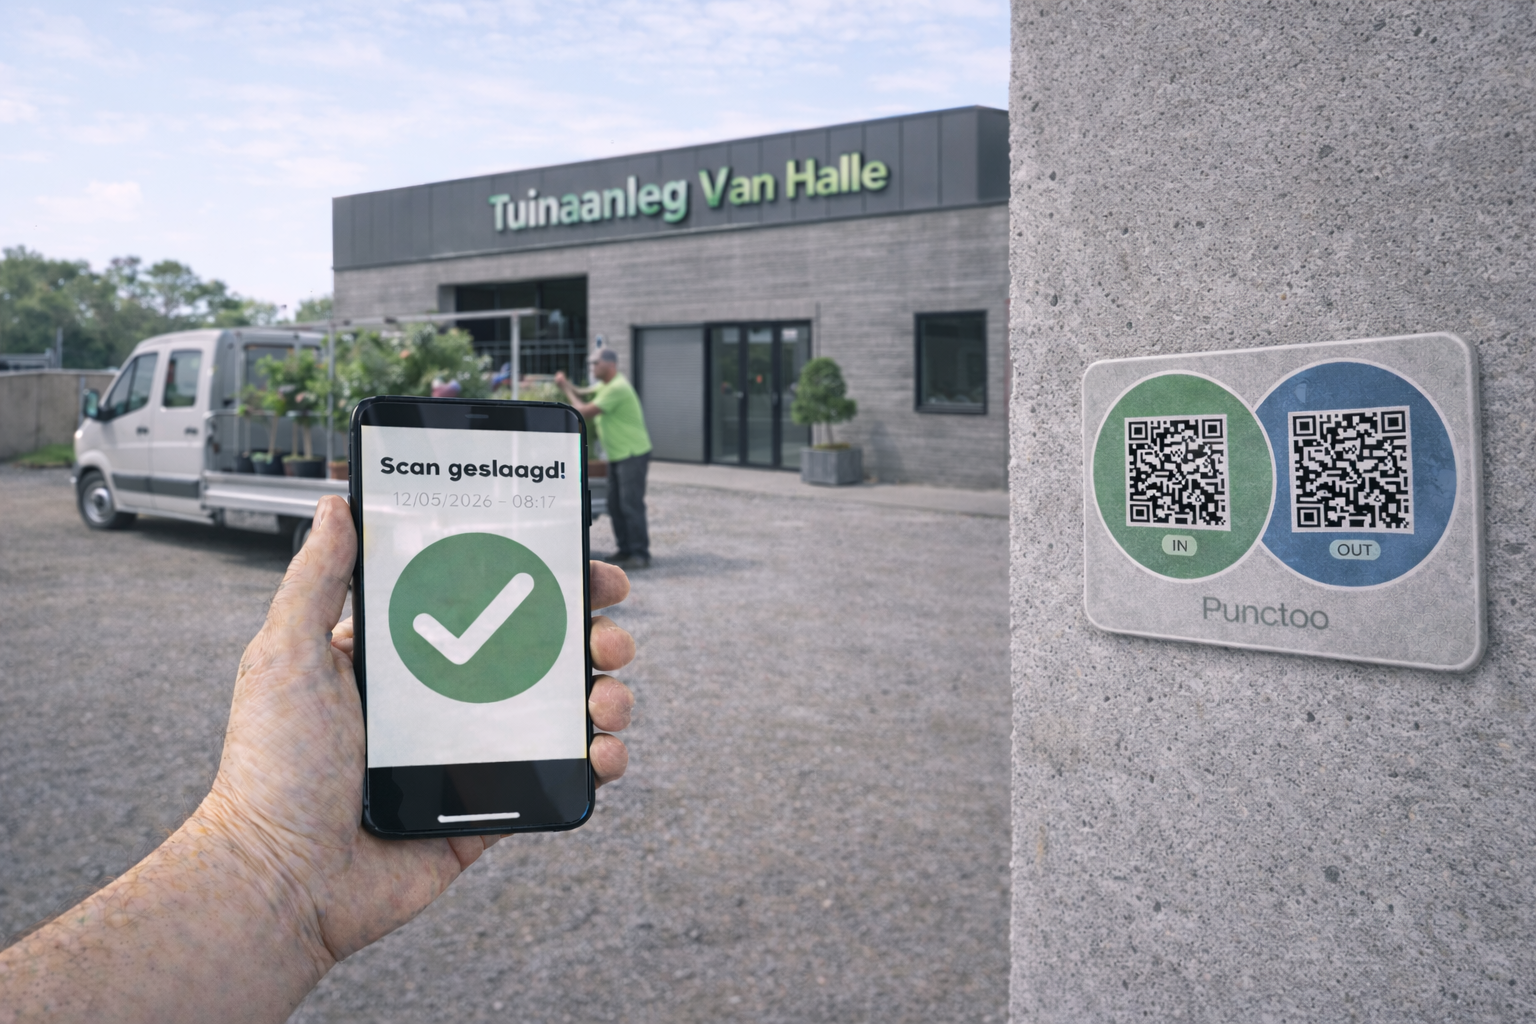
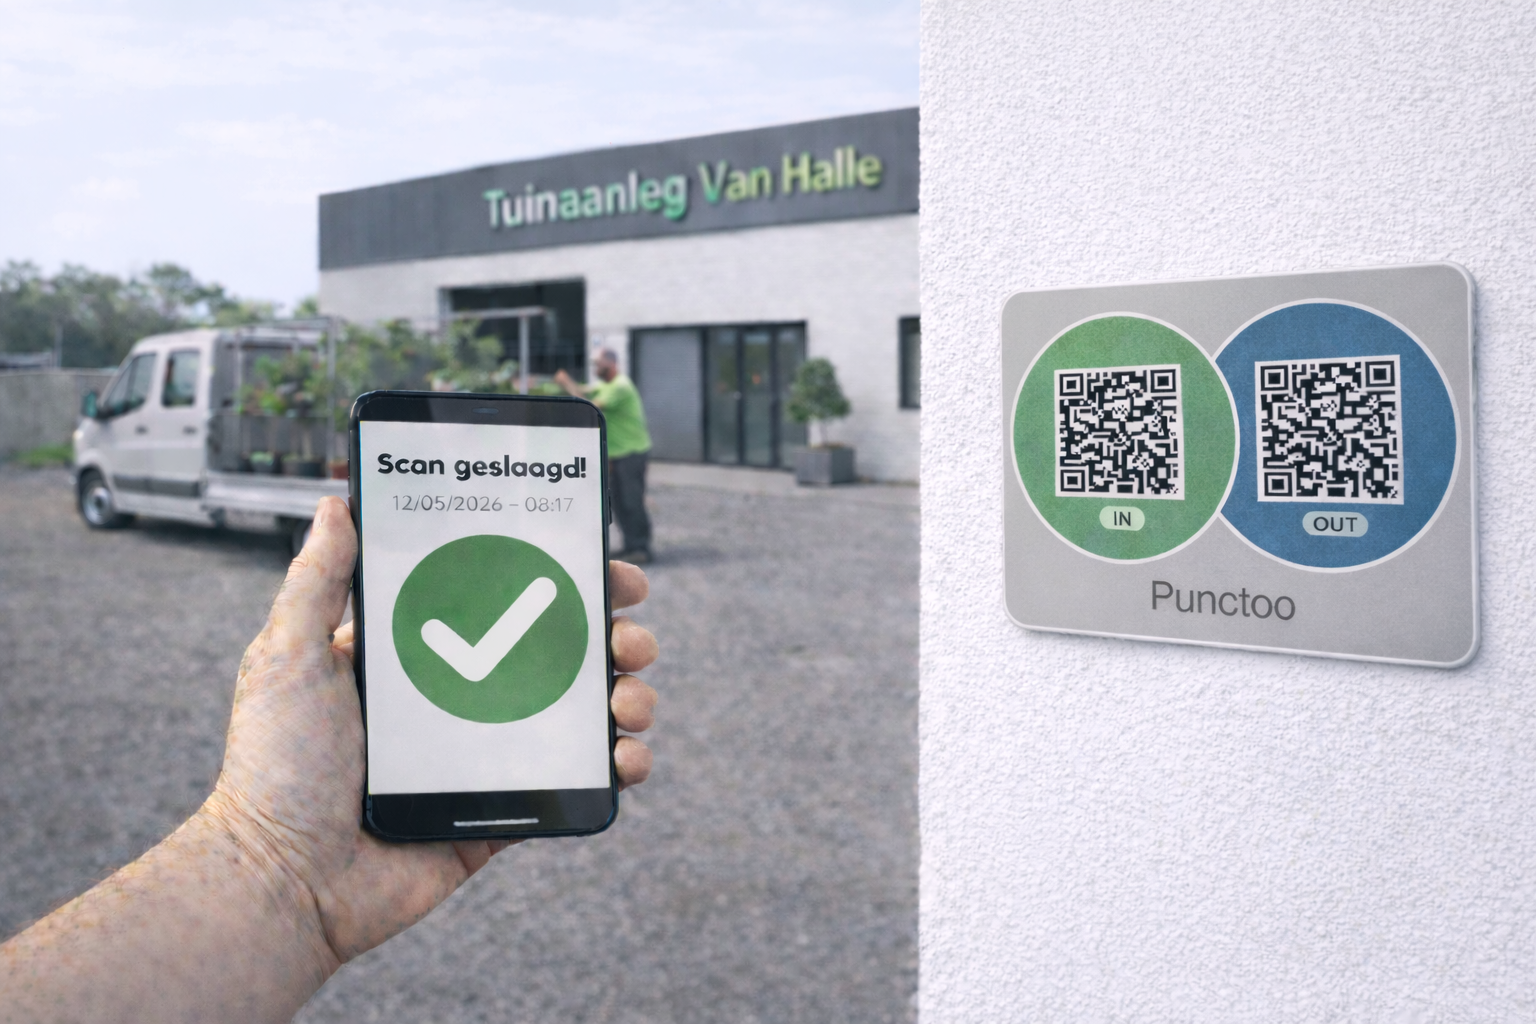
hero

diff --git a/src/app/page.js b/src/app/page.js
@@ -24,6 +24,7 @@ export default function HomePage() {
             py: 6,
           }}
         >
+          {/* LOGO */}
           <Stack spacing={3} alignItems="center" textAlign="center">
             <Box
               sx={{
@@ -50,12 +51,35 @@ export default function HomePage() {
             <Typography
               variant="h5"
               color="text.secondary"
-              sx={{ maxWidth: 980, mx: "auto", fontWeight: 600 }}
+              sx={{ maxWidth: 900, mx: "auto", fontWeight: 600 }}
             >
               Zorgeloos compliant met de arbeidswet vanaf 1 januari 2027 dankzij eenvoudige en betrouwbare tijdregistratie
             </Typography>
           </Stack>
 
+          {/* HERO FOTO */}
+          <Box
+            sx={{
+              width: "100%",
+              borderRadius: 4,
+              overflow: "hidden",
+              boxShadow: "0 10px 30px rgba(0,0,0,0.15)",
+            }}
+          >
+            <Image
+              src="/templates/hero.png"
+              alt="QR scan registratie"
+              width={1200}
+              height={600}
+              style={{
+                width: "100%",
+                height: "auto",
+                display: "block",
+              }}
+            />
+          </Box>
+
+          {/* KNOPPEN */}
           <Stack
             direction={{ xs: "column", md: "row" }}
             spacing={3}
